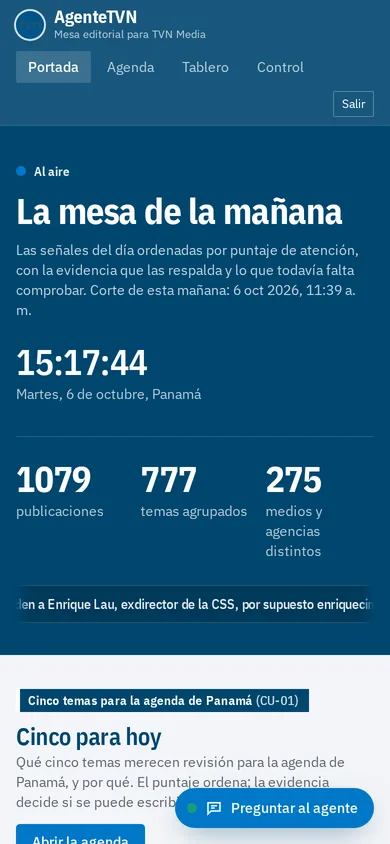
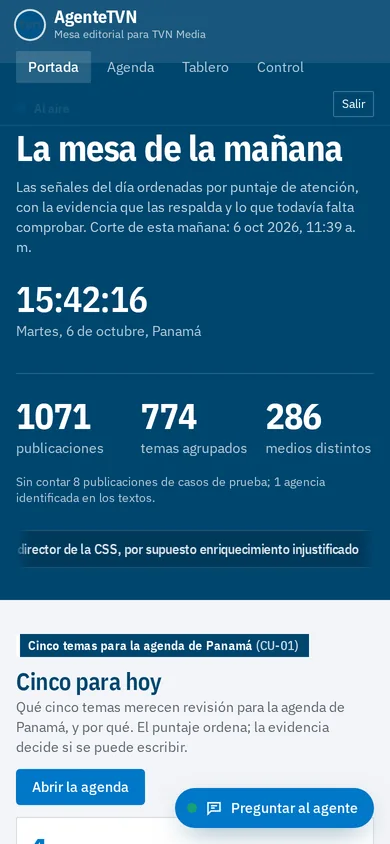
docs: capturas y cifras del tablero corregido (1 071 / 774 / 286), 79 pruebas, riesgo de acceso sin PIN

diff --git a/docs/notion/06-pruebas-y-metricas.md b/docs/notion/06-pruebas-y-metricas.md
@@ -37,6 +37,6 @@ Registro por intento en `db/llm-intentos.jsonl` del servidor de la demo (6-oct-2
 | Paquete editorial (brief, guion, copy, 3 preguntas, vacíos) | 34 | 0 | 32,6 s / 42,4 s | 5 748 | US$0,084 | US$2,844 |
 | Respuesta del chat | 2 | 0 | 7,2 s / 7,5 s | 2 356 | US$0,025 | US$0,049 |
 
-Validación sobre la última precarga (11 paquetes, 11 de 11 en modo IA): 5 frases descartadas. Cuatro, bien descartadas: mezclaban la fuente citada con otra o hablaban de entidades que la fuente no menciona («Asamblea», «Canal»). Una era un falso positivo («la causa del» contenía «a causa de»), corregido en `212b85d` con su prueba. En una pasada anterior, el validador también descartó inferencias de fecha que la fuente no da («el miércoles sería el 7 de octubre»). Pruebas: 71 en verde, entre ellas `tests/llm.test.ts` (validador, respaldo, cero llamadas offline) y `tests/llm-servicio.test.ts` (SQLite real: una llamada por evento, edición humana no pisada, paquete de otro snapshot no mostrado), las dos con control positivo (al desactivar la protección, la prueba falla).
+Validación sobre la última precarga (11 paquetes, 11 de 11 en modo IA): 5 frases descartadas. Cuatro, bien descartadas: mezclaban la fuente citada con otra o hablaban de entidades que la fuente no menciona («Asamblea», «Canal»). Una era un falso positivo («la causa del» contenía «a causa de»), corregido en `212b85d` con su prueba. En una pasada anterior, el validador también descartó inferencias de fecha que la fuente no da («el miércoles sería el 7 de octubre»). Pruebas: 79 en verde, entre ellas `tests/llm.test.ts` (validador, respaldo, cero llamadas offline) y `tests/llm-servicio.test.ts` (SQLite real: una llamada por evento, edición humana no pisada, paquete de otro snapshot no mostrado), las dos con control positivo (al desactivar la protección, la prueba falla).
 
 Pendiente: 20 consultas reservadas (se corren una sola vez al congelar, miércoles 15:00); macro-F1 de temas (kNN leave-one-out vs palabras clave) y P/R de pares con las etiquetas humanas de `data/labels/`; Precision@5 contra 5 temas elegidos a ciegas; tiempo manual vs asistido (2–3 tareas, n declarado).

diff --git a/docs/notion/04-diseno-de-solucion.md b/docs/notion/04-diseno-de-solucion.md
@@ -46,4 +46,4 @@ Solo titulares y extractos (no se leyó el artículo); GDELT no da fecha de publ
 
 ## Tablero (BI)
 
-Apache ECharts 5 (open source, renderer SVG, sin CDN) con gráficas enlazadas por un filtro compartido (tema, rango, período, medio): señales por día y tema con brush, treemap tema → eventos, dispersión relevancia (R) frente a evidencia (E) con zona «investigar», evidencia por tema, medios y tipos de procedencia, series del Banco Mundial 2010–2024 (6 países, Panamá resaltado, nulos como huecos), sismos USGS 2024 (dispersión lat/lon con la caja de consulta y barras por mes). Agregados calculados en el servidor (`src/lib/motor/tablero.ts`, probado), tooltips con HTML escapado (los titulares son datos no confiables), tabla equivalente por gráfica y `prefers-reduced-motion`.
+Apache ECharts 5 (open source, renderer SVG, sin CDN) con gráficas enlazadas por un filtro compartido (tema, rango, período, medio) aplicado a nivel de publicación: cada gráfica y tarjeta suma solo las publicaciones filtradas, y las procedencias se cuentan desde esas publicaciones. El tablero y las cifras de la portada usan solo publicaciones reales y confiables (los casos sintéticos y las fuentes no confiables quedan fuera, con nota visible; en la agenda siguen marcados) y una sola definición de «medios distintos» (`resumenCorte`). Gráficas: publicaciones por fecha (publicación o, si falta, detección) y tema con brush, treemap tema → eventos, dispersión relevancia (R) frente a evidencia (E) con zona «investigar», evidencia por tema, medios y tipos de procedencia, series del Banco Mundial 2010–2024 (6 países, Panamá resaltado, nulos como huecos), sismos USGS 2024 (dispersión lat/lon con la caja de consulta y barras por mes). Agregados calculados en el servidor (`src/lib/motor/tablero.ts`, probado), tooltips con HTML escapado (los titulares son datos no confiables), tabla equivalente por gráfica y `prefers-reduced-motion`.

diff --git a/README.md b/README.md
@@ -8,14 +8,14 @@
 
 [![Demo](https://img.shields.io/badge/demo-agentetvn.ciberpty.com-0077c8?style=flat-square)](https://agentetvn.ciberpty.com)
 ![T01–T10](https://img.shields.io/badge/T01%E2%80%93T10-10%2F10-2e7d32?style=flat-square)
-![Pruebas](https://img.shields.io/badge/pruebas-71%20en%20verde-2e7d32?style=flat-square)
+![Pruebas](https://img.shields.io/badge/pruebas-79%20en%20verde-2e7d32?style=flat-square)
 ![Sin internet](https://img.shields.io/badge/demo-funciona%20sin%20internet-00466f?style=flat-square)
 ![LLM](https://img.shields.io/badge/redacci%C3%B3n-Claude%20Opus%205.5%20validado-00466f?style=flat-square)
 ![Stack](https://img.shields.io/badge/Next.js%20%C2%B7%20Bun%20%C2%B7%20SQLite-111?style=flat-square)
 
 Reto final del **hackIAthon Panamá 2026** · Equipo **ciberpty**: Jeffery Gyamerah y Gilberto Valdés
 
-<img src="docs/img/portada.webp" alt="Portada «Al aire»: la mesa de la mañana con 1 079 publicaciones, 777 temas agrupados y los cinco temas para hoy" width="100%">
+<img src="docs/img/portada.webp" alt="Portada «Al aire»: la mesa de la mañana con 1 071 publicaciones, 774 temas agrupados, 286 medios y los cinco temas para hoy" width="100%">
 
 </div>
 
@@ -129,7 +129,7 @@ Sin el paso del modelo, la demo corre igual: la consulta cae al modo léxico (BM
 
 ```bash
 bun run doctor                  # ¿corre en esta máquina sin red? SHA-256 del snapshot, modelo, modo
-bun test                        # T01–T10 del reto + motor + redacción con IA (71 pruebas)
+bun test                        # T01–T10 del reto + motor + redacción con IA, tablero y sesión (79 pruebas)
 bun scripts/pruebas.ts          # matriz T01–T10 con commit y fecha → data/processed/pruebas.json
 bun run benchmark --split dev   # IA frente a baseline (numerador/denominador)
 ```

diff --git a/docs/notion/07-riesgos-y-etica.md b/docs/notion/07-riesgos-y-etica.md
@@ -5,6 +5,7 @@
 | Cita formal sin sustento (texto que añade detalles al titular) | Afirmaciones tipadas con `evidence_id`; redacción extractiva; cifras insertadas desde la fila oficial; leyenda «basado únicamente en titular/metadatos» | T04, T09; auditoría humana de ≥30 afirmaciones |
 | Contar réplicas como corroboración | Publicación ≠ evento ≠ procedencia; agencia replicada = 1; sin atribución = «independencia no verificada» | T02, caso sintético de 5 réplicas EFE |
 | Presentar un dato anual como actual | País, año, unidad y «contexto histórico» en cada cita; abstención si el año pedido no existe | T04, T06 |
+| Acceso sin PIN a lo editorial | Todas las rutas de la mesa exigen la sesión (cookie firmada): lecturas de agenda, tablero, control y evento incluidas (antes solo las escrituras y el chat); el despliegue verifica 401 sin sesión | `tests/api-sesion.test.ts`, `deploy/desplegar.sh` |
 | Inyección desde una fuente | Texto de fuente = dato; detector de patrones marca «no confiable» y excluye; el agente no tiene herramientas de publicación ni acceso a secretos; URLs solo http(s) | T07, 10 consultas adversariales |
 | Alucinación | Offline: sin LLM. Online (D11): el LLM solo reescribe evidencia recuperada; cada frase se valida contra su fuente (ID, tipo, cifras, citas, nombres, causas) y lo inválido se descarta; respaldo extractivo; abstenciones sin LLM. Límite: la validación es léxica, no semántica (una paráfrasis que cambie el sentido sin cambiar cifras ni nombres pasa); por eso la revisión humana sigue siendo obligatoria | T06, T09, `tests/llm.test.ts` |
 | Privacidad y reputación | No se almacenan datos personales; acusaciones se muestran como «declaración», no hecho; no hay listas de personas | Diseño del contrato |
